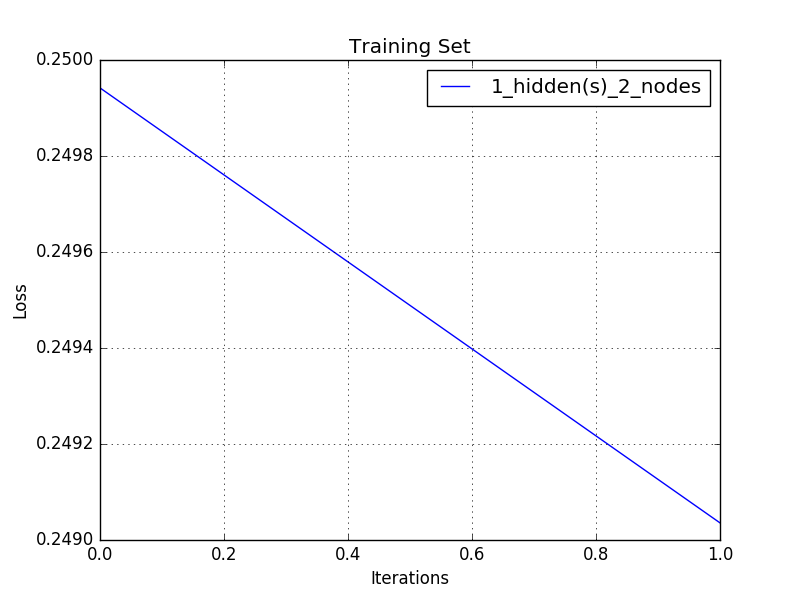
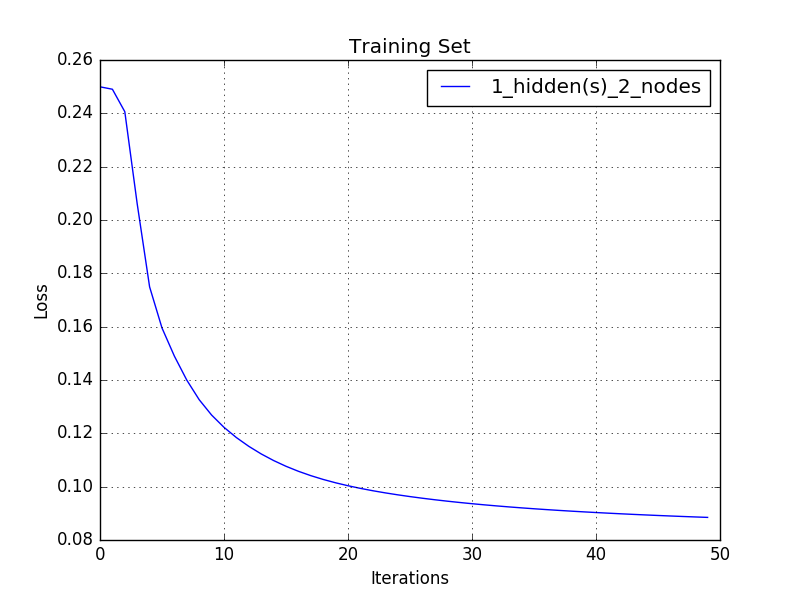
GENERATED: data for best accuracy case and different weights for small iterations.

diff --git a/Assignment6/Code/assignments/prob1_neural_networks.py b/Assignment6/Code/assignments/prob1_neural_networks.py
@@ -80,9 +80,10 @@ def run(xTrainRaw, yTrainRaw, xTestRaw, yTestRaw,
             if weights_on_image:
                 for i, w in enumerate(NN.weights):
                     img_path = os.path.join(report_path,
-                                            "weights_node{}_of_{}_in_{}_layer"
+                                            "weights_node{}_of_{}_in_{}_layer_iter{}"
                                             ".jpg".format(i, num_nodes,
-                                                          num_hidden_layer))
+                                                          num_hidden_layer,
+                                                          iterations))
                     VisualizeWeights(NN.weights[0][:, 1], img_path, resize=(288, 288))
 
             training_loss_fname = os.path.join(report_path,
@@ -134,10 +135,27 @@ def run(xTrainRaw, yTrainRaw, xTestRaw, yTestRaw,
 if __name__ == "__main__":
     (xRaw, yRaw) = LoadRawData(kDataPath, includeLeftEye=True, includeRightEye=True)
     (xTrainRaw, yTrainRaw, xTestRaw, yTestRaw) = TrainTestSplit(xRaw, yRaw, percentTest=.25)
+    # run(xTrainRaw, yTrainRaw, xTestRaw, yTestRaw,
+    #     num_hidden_layers=[1, 2],
+    #     num_nodes_per_hideen_layer=[2, 5, 10, 15, 20],
+    #     iterations=200,
+    #     step_size=.05,
+    #     weights_on_image=True)
+
+    # weight drawing
     run(xTrainRaw, yTrainRaw, xTestRaw, yTestRaw,
-        num_hidden_layers=[1, 2],
-        num_nodes_per_hideen_layer=[2, 5, 10, 15, 20],
-        iterations=200,
+        num_hidden_layers=[1],
+        num_nodes_per_hideen_layer=[2],
+        iterations=50,
         step_size=.05,
         weights_on_image=True)
+
+    # paramters with best accuracy
+    # run(xTrainRaw, yTrainRaw, xTestRaw, yTestRaw,
+    #     num_hidden_layers=[2],
+    #     num_nodes_per_hideen_layer=[15],
+    #     iterations=200,
+    #     step_size=.05,
+    #     weights_on_image=True)
+
 

diff --git a/Assignment6/Report/prob1_neural_networks.md b/Assignment6/Report/prob1_neural_networks.md
@@ -28,9 +28,11 @@ Hand in a writeup including:
 |![prob1_training_loss.png](prob1_training_loss.png) | ![prob1_test_loss.png](prob1_test_loss.png)|
 |-|-|
 
-|weights_node0_of_2_in_1_layer |weights_node1_of_2_in_1_layer |
-|-|-|
-|![weights_node0_of_2_in_1_layer](weights_node0_of_2_in_1_layer.jpg) | ![weights_node1_of_2_in_1_layer](weights_node1_of_2_in_1_layer.jpg) |
+| Iterations |weights_node0_of_2_in_1_layer |weights_node1_of_2_in_1_layer |
+|:-:|-|-|
+|50 |![weights_node0_of_2_in_1_layer_iter50](weights_node0_of_2_in_1_layer_iter50.jpg) | ![weights_node0_of_2_in_1_layer_iter50](weights_node0_of_2_in_1_layer_iter50.jpg) |
+|200 |![weights_node0_of_2_in_1_layer](weights_node0_of_2_in_1_layer.jpg) | ![weights_node1_of_2_in_1_layer](weights_node1_of_2_in_1_layer.jpg) |
+
 
 * Best Accuracy With 2 layers with 15 nodes
 
@@ -46,8 +48,10 @@ Recall: 0.9130434782608695
 FPR: 0.06026058631921824
 FNR: 0.08695652173913043
 
-![prob1_test_accuracy_2_20](prob1_test_accuracy_2_20.png)
-
+Overall acuracy graph - 
+| Accuracy with Best Paramters | Overall Accuracies |
+|-|-|
+|![prob1_test_accuracy_2_15](prob1_test_accuracy_2_15.png) | ![prob1_test_accuracy_2_20](prob1_test_accuracy_2_20.png)|
 
 
 ***
